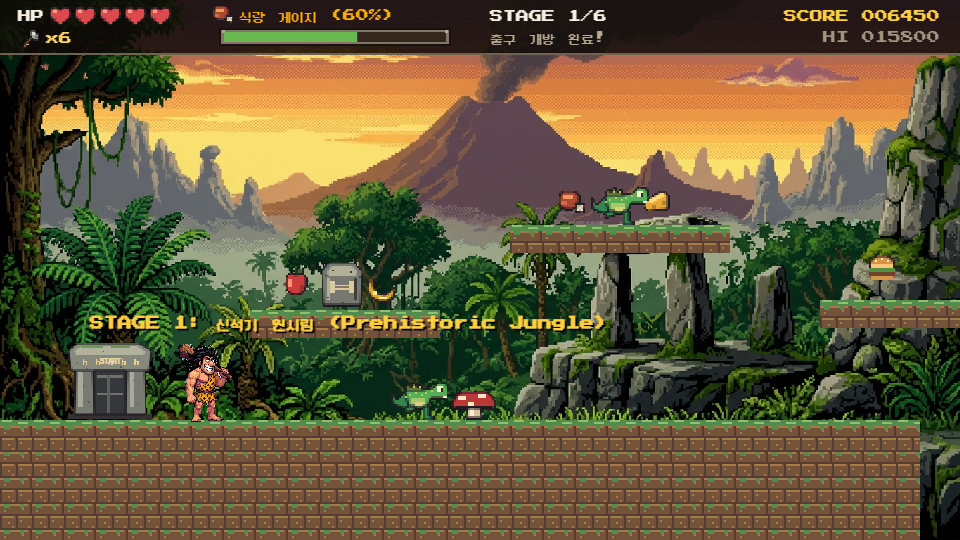
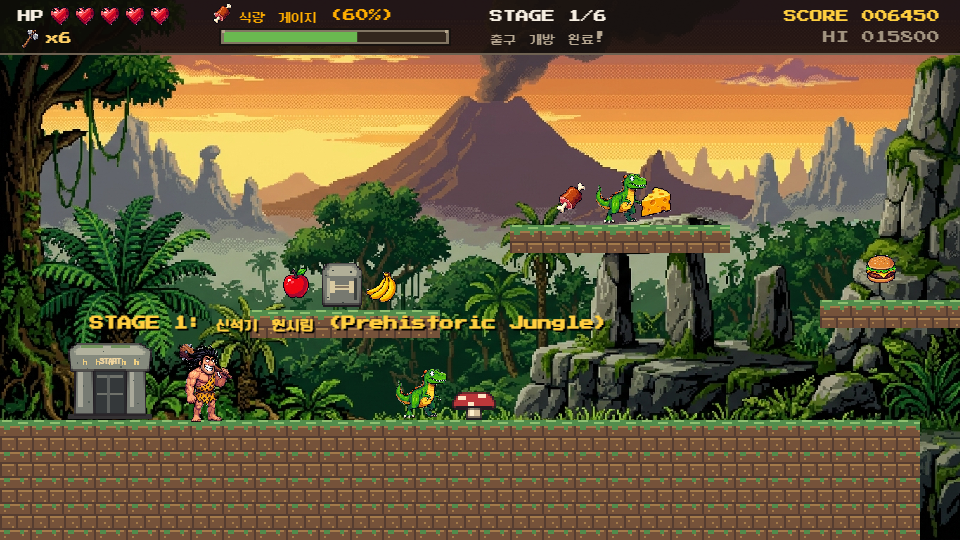
feat: upgrade all 6 monsters, 2 bosses, and 11 items to high-res 16-bit pixel-art sprite sheets

diff --git a/js/pixel_assets.js b/js/pixel_assets.js
@@ -599,12 +599,10 @@
     ctx.save(); ctx.imageSmoothingEnabled = false; ctx.drawImage(asset, Math.round(x), Math.round(y), Math.round(w), Math.round(h)); ctx.restore();
   }
 
-  // Slice 128x112 RGBA transparent frames from pre-normalized sam_idle_run.png (512x112)
-  // and sam_attack.png (256x112) using pure drawImage so it works on both file:// and https://.
-  function extractSheetFrames(img, expectedCount) {
+  // Slice cells from pre-normalized RGBA transparent PNG sheets using pure drawImage
+  // so it works seamlessly on both file:// and https:// without canvas tainting.
+  function sliceGridFrames(img, expectedCount, cellW, cellH) {
     const frames = [];
-    const cellW = 128;
-    const cellH = 112;
     for (let i = 0; i < expectedCount; i++) {
       const out = document.createElement('canvas');
       out.width = cellW;
@@ -617,6 +615,32 @@
     return frames;
   }
 
+  function refreshBestiaryDom() {
+    document.querySelectorAll('.bestiary-icon').forEach((canvasEl) => {
+      const entry = sprites[canvasEl.dataset.sprite];
+      const sprite = entry && (entry.walk || entry.fly || entry.idle)[0];
+      if (!sprite) return;
+      const context = canvasEl.getContext('2d');
+      context.clearRect(0, 0, canvasEl.width, canvasEl.height);
+      context.imageSmoothingEnabled = false;
+      const scale = Math.min(canvasEl.width / sprite.width, canvasEl.height / sprite.height);
+      const width = Math.round(sprite.width * scale);
+      const height = Math.round(sprite.height * scale);
+      context.drawImage(sprite, Math.round((canvasEl.width - width) / 2), Math.round((canvasEl.height - height) / 2), width, height);
+    });
+  }
+
+  function refreshItemsDom() {
+    document.querySelectorAll('canvas[data-item]').forEach((canvasEl) => {
+      const sprite = items[canvasEl.dataset.item];
+      if (!sprite) return;
+      const context = canvasEl.getContext('2d');
+      context.clearRect(0, 0, canvasEl.width, canvasEl.height);
+      context.imageSmoothingEnabled = false;
+      context.drawImage(sprite, 2, 2, canvasEl.width - 4, canvasEl.height - 4);
+    });
+  }
+
   const sheetIdleRun = new Image();
   const sheetAttack = new Image();
   let idleRunFrames = null;
@@ -625,7 +649,6 @@
   function applyExtractedSamSprites() {
     if (idleRunFrames && idleRunFrames.length >= 4) {
       const [idle0, run0, run1, jump0] = idleRunFrames;
-      // Subtle 2px breathing bob for idle1
       const idle1 = document.createElement('canvas');
       idle1.width = idle0.width;
       idle1.height = idle0.height;
@@ -641,26 +664,152 @@
       sprites.sam.windup = attackFrames[0];
       sprites.sam.attack = attackFrames[1];
     }
-    // Refresh any bestiary preview canvas showing Sam
-    document.querySelectorAll('.bestiary-icon[data-sprite="sam"]').forEach((canvasEl) => {
-      const sprite = sprites.sam.idle[0];
-      const context = canvasEl.getContext('2d');
-      context.clearRect(0, 0, canvasEl.width, canvasEl.height);
-      context.imageSmoothingEnabled = false;
-      context.drawImage(sprite, 0, 0, canvasEl.width, canvasEl.height);
-    });
+    refreshBestiaryDom();
   }
 
   sheetIdleRun.onload = () => {
-    idleRunFrames = extractSheetFrames(sheetIdleRun, 4);
+    idleRunFrames = sliceGridFrames(sheetIdleRun, 4, 128, 112);
     applyExtractedSamSprites();
   };
   sheetAttack.onload = () => {
-    attackFrames = extractSheetFrames(sheetAttack, 2);
+    attackFrames = sliceGridFrames(sheetAttack, 2, 128, 112);
     applyExtractedSamSprites();
   };
   sheetIdleRun.src = 'assets/sam_idle_run.png';
   sheetAttack.src = 'assets/sam_attack.png';
+
+  // Load 16-bit Monsters Sheet (dino, boar, ptero, gator, saber, lava_dino - 96x72 each)
+  const sheetMonsters = new Image();
+  sheetMonsters.onload = () => {
+    const mFrames = sliceGridFrames(sheetMonsters, 6, 96, 72);
+    const keys = ['dino', 'boar', 'ptero', 'gator', 'saber', 'lava_dino'];
+    keys.forEach((key, idx) => {
+      const f0 = mFrames[idx];
+      if (!f0) return;
+
+      // Second animation frame (stride/flap bounce)
+      const f1 = document.createElement('canvas');
+      f1.width = 96;
+      f1.height = 72;
+      const ctx1 = f1.getContext('2d');
+      ctx1.imageSmoothingEnabled = false;
+      if (key === 'ptero') {
+        ctx1.drawImage(f0, 0, 0, 96, 72, 2, 6, 92, 62);
+      } else {
+        ctx1.drawImage(f0, 0, 0, 96, 72, 1, 3, 94, 69);
+      }
+
+      // Stunned frame with golden dizzy stars
+      const st = document.createElement('canvas');
+      st.width = 96;
+      st.height = 72;
+      const stCtx = st.getContext('2d');
+      stCtx.imageSmoothingEnabled = false;
+      stCtx.drawImage(f0, 0, 0, 96, 72, 2, 8, 92, 64);
+      stCtx.fillStyle = '#ffe066';
+      stCtx.fillRect(30, 4, 6, 6);
+      stCtx.fillRect(48, 2, 6, 6);
+      stCtx.fillRect(64, 5, 6, 6);
+
+      if (key === 'ptero') {
+        sprites[key] = { fly: [f0, f1], stunned: st };
+      } else {
+        sprites[key] = { walk: [f0, f1], stunned: st };
+      }
+    });
+    refreshBestiaryDom();
+  };
+  sheetMonsters.src = 'assets/monsters_sheet.png';
+
+  // Load 16-bit Bosses Sheet (frost_boss, boss - 160x140 each)
+  const sheetBosses = new Image();
+  sheetBosses.onload = () => {
+    const bFrames = sliceGridFrames(sheetBosses, 2, 160, 140);
+    const bossKeys = ['frost_boss', 'boss'];
+    bossKeys.forEach((key, idx) => {
+      const f0 = bFrames[idx];
+      if (!f0) return;
+
+      const f1 = document.createElement('canvas');
+      f1.width = 160;
+      f1.height = 140;
+      const ctx1 = f1.getContext('2d');
+      ctx1.imageSmoothingEnabled = false;
+      ctx1.drawImage(f0, 0, 0, 160, 140, 2, 4, 156, 136);
+
+      const makeEnraged = (src) => {
+        const e = document.createElement('canvas');
+        e.width = 160;
+        e.height = 140;
+        const ectx = e.getContext('2d');
+        ectx.imageSmoothingEnabled = false;
+        ectx.drawImage(src, 0, 0);
+        ectx.globalCompositeOperation = 'source-atop';
+        ectx.fillStyle = key === 'frost_boss' ? 'rgba(255, 70, 120, 0.28)' : 'rgba(255, 50, 0, 0.30)';
+        ectx.fillRect(0, 0, 160, 140);
+        return e;
+      };
+
+      const jmp = document.createElement('canvas');
+      jmp.width = 160;
+      jmp.height = 140;
+      const jctx = jmp.getContext('2d');
+      jctx.imageSmoothingEnabled = false;
+      jctx.drawImage(f0, 0, -4);
+
+      sprites[key] = {
+        walk: [f0, f1],
+        enraged: [makeEnraged(f0), makeEnraged(f1)],
+        jump: jmp
+      };
+    });
+    refreshBestiaryDom();
+  };
+  sheetBosses.src = 'assets/bosses_sheet.png';
+
+  // Load 16-bit Items Sheet (11 items - 64x64 each)
+  const sheetItems = new Image();
+  sheetItems.onload = () => {
+    const iFrames = sliceGridFrames(sheetItems, 11, 64, 64);
+    const itemDefs = [
+      { key: 'meat', emoji: '🍖' },
+      { key: 'burger', emoji: '🍔' },
+      { key: 'apple', emoji: '🍎' },
+      { key: 'banana', emoji: '🍌' },
+      { key: 'cheese', emoji: '🧀' },
+      { key: 'icecream', emoji: '🍨' },
+      { key: 'fish', emoji: '🐟' },
+      { key: 'roast', emoji: '🍗' },
+      { key: 'amber', emoji: '💎' },
+      { key: 'axe', emoji: '🪓' },
+      { key: 'heart', emoji: '❤' }
+    ];
+    itemDefs.forEach((def, idx) => {
+      const icon = iFrames[idx];
+      if (!icon) return;
+      items[def.key] = icon;
+      items[def.emoji] = icon;
+    });
+
+    // Build dimmed emptyHeart from the 16-bit ruby heart
+    if (items.heart) {
+      const eh = document.createElement('canvas');
+      eh.width = 64;
+      eh.height = 64;
+      const ectx = eh.getContext('2d');
+      ectx.imageSmoothingEnabled = false;
+      ectx.globalAlpha = 0.38;
+      ectx.drawImage(items.heart, 0, 0);
+      ectx.globalCompositeOperation = 'source-atop';
+      ectx.globalAlpha = 1;
+      ectx.fillStyle = 'rgba(30, 22, 18, 0.65)';
+      ectx.fillRect(0, 0, 64, 64);
+      items.emptyHeart = eh;
+    }
+
+    refreshItemsDom();
+  };
+  sheetItems.src = 'assets/items_sheet.png';
 
   window.PixelAssets = { images, sprites, items, environment, tiles, draw };
 })();

diff --git a/js/sprites.js b/js/sprites.js
@@ -119,7 +119,7 @@ const SpriteRenderer = {
     ctx.save();
     ctx.translate(enemy.x + enemy.w / 2, enemy.y + enemy.h);
     ctx.scale(enemy.vx >= 0 ? 1 : -1, 1);
-    window.PixelAssets.draw(ctx, frame, -32, -48, 64, 48);
+    window.PixelAssets.draw(ctx, frame, -38, -56, 76, 56);
     ctx.restore();
   },
 
@@ -133,14 +133,14 @@ const SpriteRenderer = {
     if (boss.hurtTimer > 0 && Math.floor(boss.hurtTimer / 2) % 2 === 0) ctx.globalAlpha = 0.55;
     ctx.translate(boss.x + boss.w / 2, boss.y + boss.h);
     ctx.scale(boss.facing, 1);
-    window.PixelAssets.draw(ctx, frame, -64, -128, 128, 128);
+    window.PixelAssets.draw(ctx, frame, -76, -134, 152, 134);
     ctx.restore();
   },
 
   drawFood(ctx, item, time) {
     const icon = window.PixelAssets.items[item.emoji] || window.PixelAssets.items.meat;
     const bob = Math.round(Math.sin(time * 0.1 + item.x) * 3);
-    window.PixelAssets.draw(ctx, icon, item.x, item.y + bob, 32, 32);
+    window.PixelAssets.draw(ctx, icon, item.x - 3, item.y + bob - 4, 38, 38);
   }
 };
 

diff --git a/README.md b/README.md
@@ -98,6 +98,9 @@ goindol/
     ├── bg_boss.png        # 스테이지 6 대고인돌 제단 보스 아레나 배경
     ├── sam_idle_run.png   # 주인공 원시인 샘(Sam) 대기/질주/점프 16비트 스프라이트 시트
     ├── sam_attack.png     # 주인공 원시인 샘(Sam) 몽둥이 차징/강타 16비트 스프라이트 시트
+    ├── monsters_sheet.png # 6종 원시 몬스터(랩터/멧돼지/익룡/악어/검치호/용암렉스) 16비트 시트
+    ├── bosses_sheet.png   # 2종 거대 보스(빙하 설원 수호자 / 거대 맘모스 대왕) 16비트 시트
+    ├── items_sheet.png    # 11종 식량·보물·돌도끼·생명 하트 16비트 아이콘 시트
     ├── world_map.png      # 6대 스테이지 선사시대 대륙 파노라마 월드맵
     ├── hero_banner.png    # 타이틀 & 랜딩 페이지 아케이드 키 아트
     └── gameplay_preview.png # 인게임 플레이 프리뷰 스크린샷
